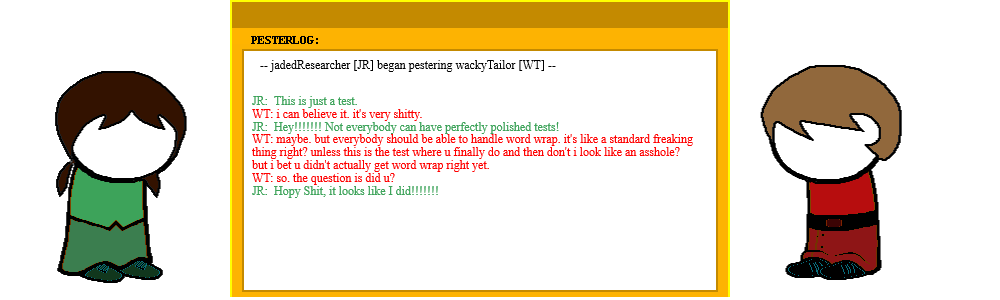
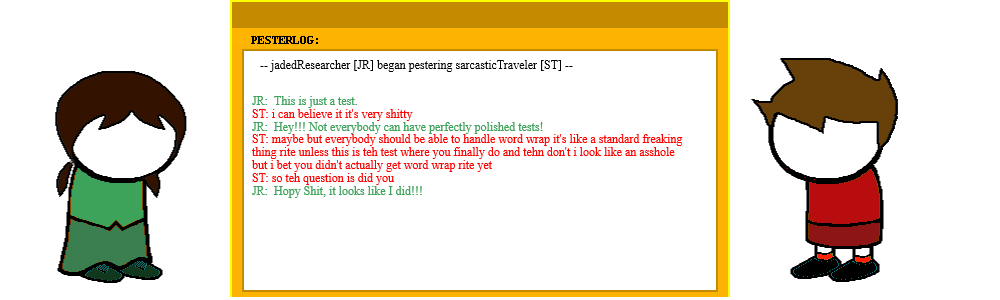
finalizing how i want to do scenes

diff --git a/index2.html b/index2.html
@@ -8,40 +8,41 @@
 		<script type="text/javascript" src="javascripts/v2.0/scenario_controller2.js"></script>
 		<script type="text/javascript" src="javascripts/random_tables.js"></script>
 		<script type="text/javascript" src="javascripts/handle_sprites.js"></script>
-		<script type="text/javascript" src="javascripts/v2.0/Scenes/Intro.js"></script>
-		<script type="text/javascript" src="javascripts/v2.0/Scenes/KingPowerful.js"></script>
-		<script type="text/javascript" src="javascripts/v2.0/Scenes/QueenRejectRing.js"></script>
-		<script type="text/javascript" src="javascripts/v2.0/Scenes/PrepareToExileQueen.js"></script>
-		<script type="text/javascript" src="javascripts/v2.0/Scenes/PlanToExileJack.js"></script>
-		<script type="text/javascript" src="javascripts/v2.0/Scenes/GiveJackBullshitWeapon.js"></script>
-		<script type="text/javascript" src="javascripts/v2.0/Scenes/PrepareToExileJack.js"></script>
-		<script type="text/javascript" src="javascripts/v2.0/Scenes/ExileQueen.js"></script>
-		<script type="text/javascript" src="javascripts/v2.0/Scenes/ExileJack.js"></script>
-		<script type="text/javascript" src="javascripts/v2.0/Scenes/JackBeginScheming.js"></script>
-		<script type="text/javascript" src="javascripts/v2.0/Scenes/levelthehellup.js"></script>
-		<script type="text/javascript" src="javascripts/v2.0/Scenes/JackRampage.js"></script>
-		<script type="text/javascript" src="javascripts/v2.0/Scenes/JackPromotion.js"></script>
-		<script type="text/javascript" src="javascripts/v2.0/Scenes/SolvePuzzles.js"></script>
-		<script type="text/javascript" src="javascripts/v2.0/Scenes/ExploreMoon.js"></script>
-		<script type="text/javascript" src="javascripts/v2.0/Scenes/GetTiger.js"></script>
-		<script type="text/javascript" src="javascripts/v2.0/Scenes/GodTierRevival.js"></script>
-		<script type="text/javascript" src="javascripts/v2.0/Scenes/CorpseSmooch.js"></script>
-		<script type="text/javascript" src="javascripts/v2.0/Scenes/GoGrimDark.js"></script>
-		<script type="text/javascript" src="javascripts/v2.0/Scenes/EngageMurderMode.js"></script>
-		<script type="text/javascript" src="javascripts/v2.0/Scenes/BeTriggered.js"></script>
-		<script type="text/javascript" src="javascripts/v2.0/Scenes/DisengageMurderMode.js"></script>
-		<script type="text/javascript" src="javascripts/v2.0/Scenes/MurderPlayers.js"></script>
-		<script type="text/javascript" src="javascripts/v2.0/Scenes/FightQueen.js"></script>
-		<script type="text/javascript" src="javascripts/v2.0/Scenes/FightKing.js"></script>
-		<script type="text/javascript" src="javascripts/v2.0/Scenes/VoidyStuff.js"></script>
-		<script type="text/javascript" src="javascripts/v2.0/Scenes/DoLandQuest.js"></script>
-		<script type="text/javascript" src="javascripts/v2.0/Scenes/FaceDenizen.js"></script>
-		<script type="text/javascript" src="javascripts/v2.0/Scenes/DoEctobiology.js"></script>
-		<script type="text/javascript" src="javascripts/v2.0/Scenes/RelationshipDrama.js"></script>
-		<script type="text/javascript" src="javascripts/v2.0/Scenes/SaveDoomedTimeline.js"></script>
-		<script type="text/javascript" src="javascripts/v2.0/Scenes/StartDemocracy.js"></script>
-		<script type="text/javascript" src="javascripts/v2.0/Scenes/PowerDemocracy.js"></script>
-		<script type="text/javascript" src="javascripts/v2.0/scene_controller2.jsbreakthisonpurpose"></script>
+		<script type="text/javascript" src="javascripts/v2.0/Scenes/AuthorMessage.js"></script>
+		<script type="text/javascript" src="javascripts/Scenes/Intro.js"></script>
+		<script type="text/javascript" src="javascripts/Scenes/KingPowerful.js"></script>
+		<script type="text/javascript" src="javascripts/Scenes/QueenRejectRing.js"></script>
+		<script type="text/javascript" src="javascripts/Scenes/PrepareToExileQueen.js"></script>
+		<script type="text/javascript" src="javascripts/Scenes/PlanToExileJack.js"></script>
+		<script type="text/javascript" src="javascripts/Scenes/GiveJackBullshitWeapon.js"></script>
+		<script type="text/javascript" src="javascripts/Scenes/PrepareToExileJack.js"></script>
+		<script type="text/javascript" src="javascripts/Scenes/ExileQueen.js"></script>
+		<script type="text/javascript" src="javascripts/Scenes/ExileJack.js"></script>
+		<script type="text/javascript" src="javascripts/Scenes/JackBeginScheming.js"></script>
+		<script type="text/javascript" src="javascripts/Scenes/levelthehellup.js"></script>
+		<script type="text/javascript" src="javascripts/Scenes/JackRampage.js"></script>
+		<script type="text/javascript" src="javascripts/Scenes/JackPromotion.js"></script>
+		<script type="text/javascript" src="javascripts/Scenes/SolvePuzzles.js"></script>
+		<script type="text/javascript" src="javascripts/Scenes/ExploreMoon.js"></script>
+		<script type="text/javascript" src="javascripts/Scenes/GetTiger.js"></script>
+		<script type="text/javascript" src="javascripts/Scenes/GodTierRevival.js"></script>
+		<script type="text/javascript" src="javascripts/Scenes/CorpseSmooch.js"></script>
+		<script type="text/javascript" src="javascripts/Scenes/GoGrimDark.js"></script>
+		<script type="text/javascript" src="javascripts/Scenes/EngageMurderMode.js"></script>
+		<script type="text/javascript" src="javascripts/Scenes/BeTriggered.js"></script>
+		<script type="text/javascript" src="javascripts/Scenes/DisengageMurderMode.js"></script>
+		<script type="text/javascript" src="javascripts/Scenes/MurderPlayers.js"></script>
+		<script type="text/javascript" src="javascripts/Scenes/FightQueen.js"></script>
+		<script type="text/javascript" src="javascripts/Scenes/FightKing.js"></script>
+		<script type="text/javascript" src="javascripts/Scenes/VoidyStuff.js"></script>
+		<script type="text/javascript" src="javascripts/Scenes/DoLandQuest.js"></script>
+		<script type="text/javascript" src="javascripts/Scenes/FaceDenizen.js"></script>
+		<script type="text/javascript" src="javascripts/Scenes/DoEctobiology.js"></script>
+		<script type="text/javascript" src="javascripts/Scenes/RelationshipDrama.js"></script>
+		<script type="text/javascript" src="javascripts/Scenes/SaveDoomedTimeline.js"></script>
+		<script type="text/javascript" src="javascripts/Scenes/StartDemocracy.js"></script>
+		<script type="text/javascript" src="javascripts/Scenes/PowerDemocracy.js"></script>
+		<script type="text/javascript" src="javascripts/scene_controller2.jsbreakthisonpurpose"></script>
 		<title>
 			SBURB Story Generator 2.0 by jadedResearcher
 		</title>

diff --git a/javascripts/v2.0/Scenes/AuthorMessage.js b/javascripts/v2.0/Scenes/AuthorMessage.js
@@ -1,0 +1,65 @@
+function AuthorMessage(){
+	this.canRepeat = false;	
+	this.playerList = [];  //what players are already in the medium when i trigger?
+	this.player = null;
+	this.trigger = function(playerList, player){
+		this.playerList = playerList;
+		this.player = player;
+		return true; //this should never be in the main array. call manually.
+	}
+	
+	//TODO consider making this a method in handleSprites, so ALL scenes can get at it. 
+	//make a pesterchum skin and stick text into it. How much can I fit?
+	//describe what land is like "It's full of...Peace", get word that isn't 'Land', 'of' or 'and'.
+	this.chat = function(div){
+		var repeatTime = 1000;
+		var canvasHTML = "<br><canvas id='canvas" + (div.attr("id")) +"' width='" +canvasWidth + "' height="+canvasHeight + "'>  </canvas>";
+		div.append(canvasHTML);
+		//first, find/make pesterchum skin. Want it to be no more than 300 tall for now.
+		//then, have some text I want to render to it.
+		//filter through quirks, and render.  (you can splurge and make more quirks here, future me)
+		//does it fit in screen? If it doesn't, what should i do? scroll bars? make pesterchum taller?
+		//do what homestuck does and put some text in image but rest in pesterlog?
+		//when trolls happen, should they use trollian?
+		var player1 = this.player;
+		var player2 = player1.getBestFriendFromList(players);
+		if(player2 == null){
+			player2 = player1.getWorstEnemyFromList(players);
+			
+		}
+		
+		var player1Start = player1.chatHandleShort()+ ": "
+		var player2Start = player2.chatHandleShortCheckDup(player1.chatHandleShort())+ ":"; //don't be lazy and usePlayer1Start as input, there's a colon.
+		var chatText = player1Start+ player1.quirk.translate("This is just a test.\n");
+		chatText += player2Start + player2.quirk.translate("I can believe it. It's very shitty.\n");
+		chatText += player1Start + player1.quirk.translate("Hey! Not everybody can have perfectly polished tests!\n");
+		chatText += player2Start + player2.quirk.translate("Maybe. But EVERYBODY should be able to handle word wrap.  It's like, a standard freaking thing, right? Unless this is the test where you finally do, and then don't I look like an asshole? But I bet you didn't actually get word wrap right, yet.\n");
+		chatText += player2Start + player2.quirk.translate("So. The question is: Did you?\n");
+		chatText += player1Start + player1.quirk.translate("Hopy Shit, it looks like I did!\n");
+		//TODO change text based on p1 and p2 relationships.  and vice versa. p1 is all flirty, p2 is a dick. yeeeessss.....
+		//var spriteBuffer = getBufferCanvas(document.getElementById("canvas_template"));
+		drawChat(document.getElementById("canvas"+ (div.attr("id"))), player1, player2, chatText, repeatTime);
+	}
+	
+	//i is so you know entry order
+	this.content = function(div,i){
+		debug("need to handle dialog next")
+		var narration = "<br>The " + this.player.htmlTitle() + " enters the game " + indexToWords(i) + ". ";
+		if(this.player.leader){
+			narration += "They are definitely the leader.";
+		}
+		if(this.player.godDestiny){
+			narration += " They appear to be destined for greatness. ";
+		}
+		narration += " They boggle vacantly at the " + this.player.land + ". ";
+		
+		for(var j = 0; j<this.player.relationships.length; j++){
+			var r = this.player.relationships[j];
+			if(r.type() != "Friends" && r.type() != "Rivals"){
+				narration += "They are " + r.description() + ". ";
+			}
+		}
+		div.append(narration);
+		this.chat(div);
+	}
+}

diff --git a/javascripts/v2.0/scenario_controller2.js b/javascripts/v2.0/scenario_controller2.js
@@ -16,6 +16,7 @@ var spriteWidth = 400;
 var spriteHeight = 300;
 var canvasWidth = 1000;
 var canvasHeight = 300;
+var version2 = true;
 //have EVERYTHING be a scene, don't put any story in v2.0's controller
 //every scene can update the narration, or the canvas. 
 //should there be only one canvas?  Can have player sprites be written to a virtual canvas first, then copied to main one.
@@ -29,7 +30,13 @@ window.onload = function() {
 	if(!debugMode){
 		randomizeEntryOrder();
 	}
+	//authorMessage();
 	intro();
+	//make a new intro scene that has characters talk about their lands with their best friends/worst enemies. 
+	//refacor other scenario controller to use special scenes (not part of scene controller) rather than
+	//have messy internal methods.
+	//all other scenes are handled through the scene controller like normal, which will check if var version2 = true;
+	//and if so will call "render" rather than "content"
 	debug("Consider having ticks be a button press that clears the current story, rather than all at once. Only do this if too many canvases");
 }
 
@@ -40,14 +47,18 @@ function newScene(){
 	return $("#scene"+currentSceneNum);
 }
 
+function authorMessage(){
+	makeAuthorAvatar();
+	introScene = new AuthorMessage();
+	introScene.trigger(players, players[0])
+	introScene.content(newScene(),0); //new scenes take care of displaying on their own.
+}
+
 function intro(){
 	introScene = new Intro();
 	
 	for(var i = 0; i<players.length; i++){
 		var p = players[i];
-		if(i==0){
-			p.leader = true;
-		}
 		introScene.trigger(players, p)
 		//$("#story").append(introScene.content());
 		introScene.content(newScene(),i); //new scenes take care of displaying on their own.
@@ -57,14 +68,17 @@ function intro(){
 
 function randomizeEntryOrder(){
 	players = shuffle(players);
+	players[0].leader = true;
 }
 
 function makeAuthorAvatar(){
 	players[0].aspect = "Mind"
 	players[0].class_name = "Maid"
 	players[0].hair = 13;
+	players[0].hairColor = "#291200";
 	players[0].quirk.punctuation = 3;
 	players[0].quirk.capitalization = 1;
+	players[0].quirk.favoriteNumber = 3;
 	players[0].chatHandle = "jadedResearcher"
 }
 
@@ -84,5 +98,4 @@ function init(){
 		players[j].generateRelationships(players);
 		players[j].quirk = randomHumanQuirk();
 	}
-	//makeAuthorAvatar();
 }
